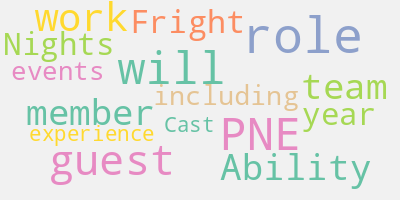
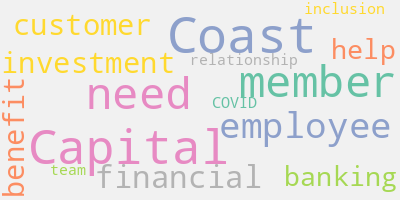
new columns added

Changed region(s): [[0.0, 0.0, 0.99, 0.99], [0.81, 0.72, 0.84, 0.75], [0.42, 0.57, 0.45, 0.6]]

diff --git a/match_maker.py b/match_maker.py
@@ -18,21 +18,10 @@ keywords = [
     'Data Quality', 'Data Governance', 'Data Management', 'Data Integration', 'Data Architecture', 'Data Engineering'
 ]
 
-your_ideal_stack_text = """Statistical analysis and computing, Machine Learning, Deep Learning,
-                            Processing large data sets, 
-                            Data Visualization, Data Wrangling,Mathematics, Programming, Statistics, Big Data,
-                            Data Mining, Data Science, Data Engineering, Data Architecture, Data Analytics,
-                            Data Management,Data Governance, Data Quality, Data Integration, Data Warehousing,
-                            Data Modeling,Fundamentals of Data Science Statistics Programming knowledge 
-                            Data Manipulation and Analysis Data Visualization Machine Learning Deep Learning Big Data
-                            software Engineering Model Deployment Communication Skills
-                            Storytelling Skills Structured Thinking
-                            Curiosity Creativity
-                            Problem Solving Critical Thinking
-                        """ + " ".join(lorem.paragraph().split(" "))
+your_ideal_stack_text =  [lorem.paragraph() for _ in range(2)]
 
 wordcloud = WordCloud(stopwords=STOPWORDS, max_font_size=50, max_words=15, background_color="#F1F1F1", colormap='Set2',
-                      collocations=False, random_state=1).generate(your_ideal_stack_text)
+                      collocations=False, random_state=1).generate(your_ideal_stack_text[0])
 wordcloud.to_file("png/lorem_stack_wordcloud.png")
 
 # use bcjobs.ca api to query jobs data. Response contains only the latest 10 job ads.
@@ -43,7 +32,7 @@ def main():
     st.title("Match Maker")
     st.subheader("Attempts to match skills to relevant job postings...")
     st.markdown(f"""This app is a simple job matching tool that uses the bcjobs.ca API to query the latest job ads. 
-    The app uses the job description to generate a word cloud of the most used (default 15 ) non stop words and then 
+    The app uses the job description to generate a word cloud of the most used (default 15) non stop words and then 
     tries to match the job ads that have a similar word cloud from the user's skill sets. 
     Copy your stack in one of the first text area and let the app build your word cloud, then see if there is a visual
      match. Will come up with a similarity score later... 
@@ -90,16 +79,41 @@ def main():
             soup = bs.BeautifulSoup(r.text, 'lxml')
             meta_data = soup.find('div', class_="clearfix u_mt-md")
             try:
-                position_type, posted = meta_data.text.split('Details')[1].strip().split(
-                    '\n\n\n')  # get the position type and posted date
-                df_.loc[i_, 'position_type'] = position_type.strip()
-                df_.loc[i_, 'posted'] = posted.strip()
-            except:
+                salary_amount= meta_data.text.split('Salary')[1].strip().split('\n')[0].strip()
+            except IndexError:
+                salary_amount = 'N/A'
                 pass
 
+            try:
+                location= meta_data.text.split('Location')[1].strip().split('\n')[0].strip()
+            except IndexError:
+                location = 'N/A'
+                pass
+
+            try:
+                position_type, posted = meta_data.text.split('Details')[1].strip().split(
+                    '\n\n\n')  # get the position type and posted date
+            except ValueError:
+                position_type, posted = 'N/A', 'N/A'
+                pass
+
+            try:
+                category = soup.find_all('a',class_="rf_tag u_mb-xxs u_mr-xxs")[-1].text.strip('\n')
+            except IndexError:
+                category = 'N/A'
+                pass
+
+
+            df_.loc[i_, 'position'] = position_type
+            df_.loc[i_, 'location'] = location
+            df_.loc[i_, 'posted'] = posted.strip()
             job_desc = soup.find('div', class_='clearfix u_text--90 u_mb-base u_overflow-hidden').text
             df_.loc[i_, 'job_description'] = job_desc
             df_.loc[i_, 'job_url'] = job_url
+            df_.loc[i_, 'category'] = category
+            df_.loc[i_, 'salary'] = salary_amount
+
+            
 
         df_.drop(columns=['url'], inplace=True)
 
@@ -136,9 +150,9 @@ def main():
 
     job_xpdr = st.expander('Latest Jobs', expanded=True)
 
-    cols = job_xpdr.columns([4, 2, 2, 2, 2, 2])  # (len(df.columns)+4)
+    cols = job_xpdr.columns([4, 2, 2, 2, 2, 2, 2])  # (len(df.columns)+4)
 
-    dff = df.drop(columns=['job_description', 'job_url'])
+    dff = df.drop(columns=['job_description', 'job_url','locations','publishDate'])
     # first write the headers
     for i, h in enumerate(dff.columns):
         cols[i].markdown(f'<span style="font-size:24px">{h}</span>', unsafe_allow_html=True)
@@ -154,10 +168,9 @@ def main():
     word_max = st.slider('Wordcloud Max', min_value=10, max_value=45, value=15, step=5)
 
     st.write(f"""Copy text containing your skills, experience, etc. in the text box below. 
-                                            By default, a random word list is generated using some common data science 
-                                            skills plus some noise (see lorem). 
-                                             The app will generate a wordcloud of the most used words in your text. 
-                                             The wordcloud will be used to match your skills with the job ads.""")
+                                            A random word cloud shown as a placeholder, generated using words from the lorem package. 
+                                             The app will generate a word  cloud of the most used words in your text. 
+                                             The word cloud will be used to match your skills with the job ads.""")
 
     your_true_stack_text_ = st.text_input(label="", value="",
                                           key=f"your_stack_text_")
